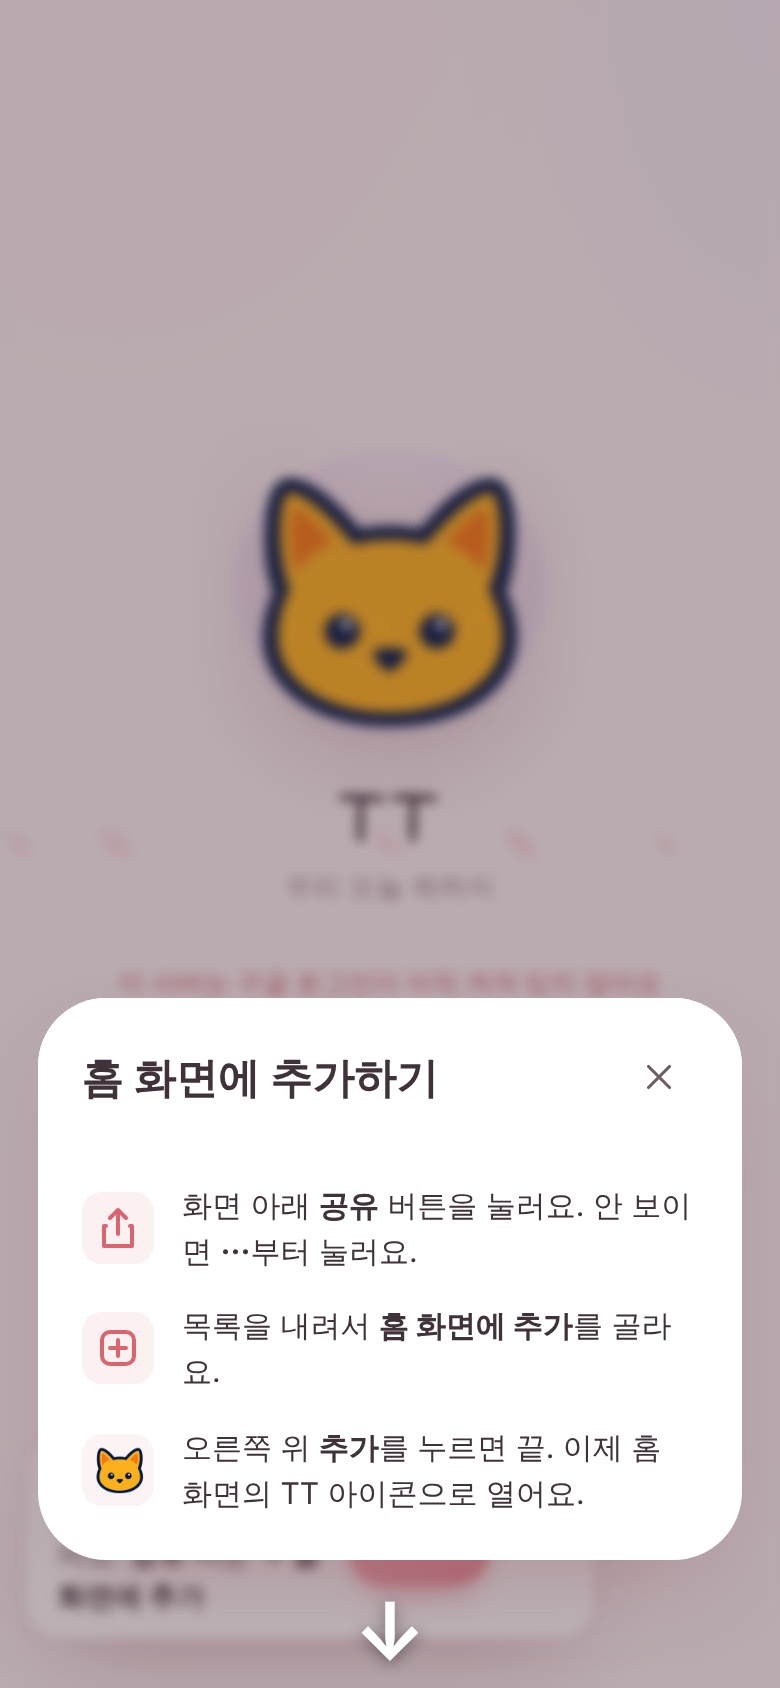
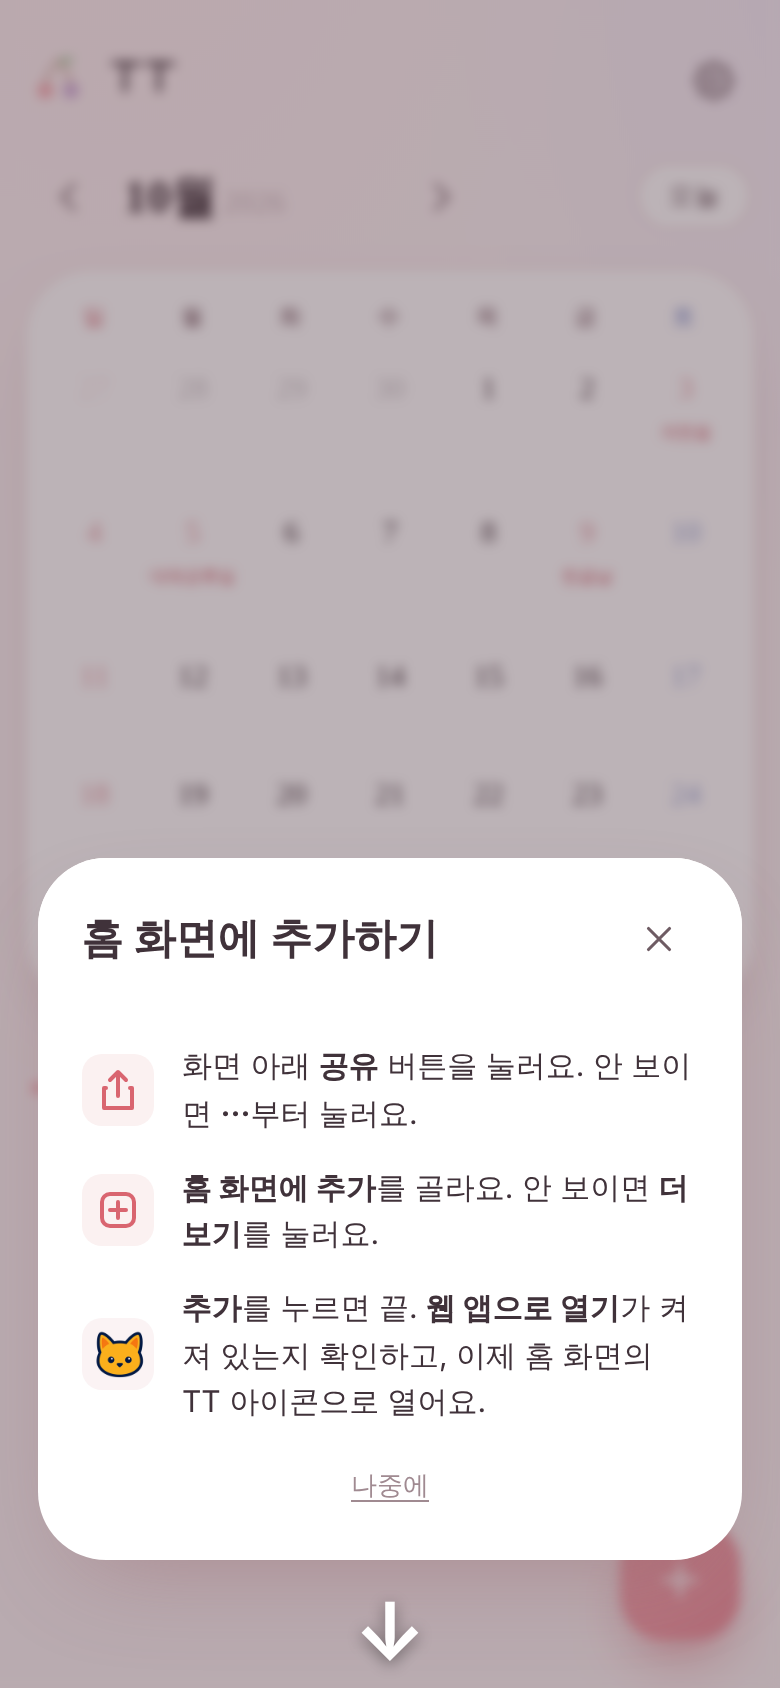
아이폰 설치: 제안 창 없이 바로 3단계 그림 안내, 공유 시트 안 씀
- 이름을 정한 뒤 아이폰은 "홈 화면에 TT를 둘까요?" 없이 바로 #install-guide (창 하나, 할 일 하나)
- navigator.share로 설치하던 코드와 "공유 시트를 열면 설치함" 처리 삭제 — 웹이 연 공유 시트엔
  "홈 화면에 추가"가 없음(실기기 확인, docs/IOS_INSTALL_RESEARCH.md)
- 그림 안내 3단계를 iOS 26 기준으로: ① 공유(안 보이면 ···) ② 홈 화면에 추가(안 보이면 더 보기)
  ③ 추가(웹 앱으로 열기 켜졌는지). 9개 언어. 안 쓰게 된 install.offerIos 삭제
- 처음 들어와 뜬 그림 안내엔 "나중에" — 어떻게 닫든 브라우저에서 사용법으로 이어짐.
  설정의 설치 버튼도 아이폰이면 같은 그림 안내("나중에" 없음)
- 안드로이드 설치 제안 창은 그대로
- 테스트: 아이폰 이름 → 그림 안내(제안 창·share 없음) → 나중에/× → 사용법,
  안드로이드 이름 → 제안 창 → 설치 창
- 스크린샷 13·14를 새 안내로(라이트·night), 없어진 제안 창 스크린샷 삭제

Claude-Session: https://claude.ai/code/session_01J9EXQ38aFxAwyDC6Rs36WW

diff --git a/public/app.js b/public/app.js
@@ -2626,7 +2626,9 @@ $('s-push').addEventListener('click', togglePush);
    크롬·엣지는 설치할 수 있을 때 beforeinstallprompt를 한 번 줍니다 — 이미 설치했으면 안 줘요.
    받아 뒀다가 누르면 바로 설치 창을 띄웁니다. 아이폰은 웹페이지가 대신 설치해 줄 길이 애플에 없어서
    공유 시트를 열어 주거나 "공유 → 홈 화면에 추가"를 그림으로 안내해요. 홈 화면에서 연 앱과 스토어 앱은 건너뜁니다.
-   권하는 건 처음 들어올 때 한 번(아래 "처음 들어올 때")과 설정의 설치 버튼뿐입니다. */
+   권하는 건 처음 들어올 때 한 번(아래 "처음 들어올 때")과 설정의 설치 버튼뿐입니다.
+   (공유 시트를 대신 여는 navigator.share는 쓰지 않습니다 — 웹이 연 공유 시트에는 "홈 화면에 추가"가 없어요.
+   실기기 확인, docs/IOS_INSTALL_RESEARCH.md) */
 let installPrompt = null;
 let promptWaiters = []; // 설치 신호를 잠깐 기다리는 쪽 (offerInstall)
 
@@ -2674,9 +2676,14 @@ function hideInstall() {
   showInstallButtons();
 }
 
-/** 아이폰 사파리는 단계 그림, 앱 안 화면은 "브라우저로 열기" 안내 */
-function openInstallGuide(mode) {
+/** 아이폰 사파리는 단계 그림, 앱 안 화면은 "브라우저로 열기" 안내.
+    firstRun이면 아래에 "나중에"를 두고, 닫히면 사용법으로 이어집니다 (closeInstallGuide). */
+let installGuideFirstRun = false;
+
+function openInstallGuide(mode, { firstRun = false } = {}) {
   const away = mode === 'away';
+  installGuideFirstRun = firstRun;
+  $('install-guide-later').hidden = !firstRun;
   // 첫 화면에서는 언어를 고르기 전에 열려서, 고른 뒤 applyI18n이 다시 옮기도록 키로 답니다
   $('install-guide-title').dataset.i18n = away ? 'install.awayTitle' : 'install.guideTitle';
   $('install-guide-title').textContent = t($('install-guide-title').dataset.i18n);
@@ -2689,16 +2696,6 @@ function openInstallGuide(mode) {
   if (!$('install-guide').open) $('install-guide').showModal();
 }
 
-/** 아이폰: 공유 시트를 바로 엽니다 — "홈 화면에 추가"가 그 안에 있어요. 못 열면 그림 안내로. */
-async function shareToHome() {
-  try {
-    if (!navigator.share) throw new Error('no share');
-    await navigator.share({ url: location.origin });
-  } catch {
-    openInstallGuide('ios');
-  }
-}
-
 /** 설정의 설치 버튼 */
 async function install() {
   if (appBrowser()) return openInstallGuide('away');
@@ -2707,7 +2704,7 @@ async function install() {
     await installPrompt.userChoice;
     return hideInstall();
   }
-  if (safariTab()) return shareToHome();
+  if (safariTab()) return openInstallGuide('ios');
 }
 
 async function copyArrivedAt() {
@@ -2724,6 +2721,14 @@ addEventListener('beforeinstallprompt', (e) => {
 addEventListener('appinstalled', hideInstall);
 $('s-install').addEventListener('click', install);
 $('install-guide-close').addEventListener('click', () => $('install-guide').close());
+$('install-guide-later').addEventListener('click', () => $('install-guide').close());
+// 처음 들어와 뜬 그림 안내는 어떻게 닫든(나중에·×·Esc) 사용법으로 이어집니다
+$('install-guide').addEventListener('close', () => {
+  if (!installGuideFirstRun) return;
+  installGuideFirstRun = false;
+  $('install-guide-later').hidden = true;
+  maybeGuide();
+});
 $('install-guide-open').addEventListener('click', leaveAppBrowser);
 $('install-guide-copy').addEventListener('click', copyArrivedAt);
 if (appBrowser()) {
@@ -2795,7 +2800,8 @@ const promptArrives = (ms) => new Promise((resolve) => {
   promptWaiters.push(() => { clearTimeout(timer); resolve(); });
 });
 
-/** ② 홈 화면에 둘까요? — 브라우저 탭에서, 이 기기에 한 번만 */
+/** ② 홈 화면에 — 브라우저 탭에서, 이 기기에 한 번만.
+    안드로이드는 "둘까요?" 창 → 시스템 설치 창. 아이폰은 묻지 않고 바로 3단계 그림 안내 (창 하나, 할 일 하나) */
 async function offerInstall() {
   if (inApp() || installed()) return maybeGuide();
   const offered = localStorage.getItem(INSTALL_OFFERED);
@@ -2805,15 +2811,16 @@ async function offerInstall() {
   const ios = !installPrompt && safariTab();
   if (!installPrompt && !ios) return maybeGuide(); // 설치할 길이 없는 브라우저 — 바로 사용법
   localStorage.setItem(INSTALL_OFFERED, 'skipped'); // 창을 그냥 닫고 떠나도 다시 묻지 않게
-  $('install-offer-text').innerHTML = t(ios ? 'install.offerIos' : 'install.offerAndroid');
+  if (ios) return openInstallGuide('ios', { firstRun: true });
   if (!$('install-offer').open) $('install-offer').showModal();
 }
 
+/** 안드로이드: 버튼 한 번 → 시스템 설치 창 */
 async function takeInstall() {
-  localStorage.setItem(INSTALL_OFFERED, 'taken');
   $('install-offer').close();
-  if (!installPrompt) return shareToHome(); // 아이폰 — 누른 그 자리에서 열어야 사파리가 허락합니다
   const prompt = installPrompt;
+  if (!prompt) return skipInstall();
+  localStorage.setItem(INSTALL_OFFERED, 'taken');
   prompt.prompt();
   const { outcome } = await prompt.userChoice;
   hideInstall();

diff --git a/public/i18n/ru.js b/public/i18n/ru.js
@@ -157,11 +157,10 @@ globalThis.I18N.ru = {
   'name.ok': 'Готово',
   'install.offerTitle': 'Добавить TT на главный экран?',
   'install.offerAndroid': 'Откроется сразу, как приложение, и сообщит, когда партнёр изменит план.',
-  'install.offerIos': 'На iPhone уведомления приходят, только если TT на главном экране. В открывшемся меню выбери <b>На экран «Домой»</b>.',
   'install.guideTitle': 'На экран «Домой»',
   'install.step1': 'Нажмите <b>Поделиться</b> внизу экрана. Не видно? Сначала нажмите <b>···</b>.',
-  'install.step2': 'Прокрутите вниз и выберите <b>На экран «Домой»</b>.',
-  'install.step3': 'Нажмите <b>Добавить</b> справа вверху. Теперь открывайте TT значком на экране «Домой».',
+  'install.step2': 'Выберите <b>На экран «Домой»</b>. Нет в списке? Нажмите <b>Ещё</b>.',
+  'install.step3': 'Нажмите <b>Добавить</b>. Проверьте, что <b>Открыть как веб-приложение</b> включено, и теперь открывайте TT значком на экране «Домой».',
   'install.awayTitle': 'Откройте в браузере',
   'install.awayText': 'Внутри приложений вроде Instagram не работают ни вход через Google, ни добавление на экран «Домой».',
   'install.awayHow': 'Откройте меню <b>···</b> и выберите <b>Открыть в браузере</b> (на iPhone — <b>Открыть в Safari</b>).',

diff --git a/public/index.html b/public/index.html
@@ -961,12 +961,13 @@
   </form>
 </dialog>
 
-<!-- ② 홈 화면 추가 — 브라우저 탭에서 한 번만. 안드로이드는 시스템 설치 창, 아이폰은 공유 시트 -->
+<!-- ② 홈 화면 추가 — 브라우저 탭에서 한 번만. 안드로이드는 이 창 → 시스템 설치 창.
+     아이폰은 웹이 대신 설치할 길이 없어서 이 창 없이 바로 그림 안내(#install-guide)를 띄웁니다 -->
 <dialog id="install-offer" class="ask-dialog step-dialog" aria-labelledby="install-offer-title">
   <div class="ask step">
     <img class="step-icon" src="/apple-touch-icon.png" alt="" width="64" height="64">
     <h2 id="install-offer-title" class="step-title" data-i18n="install.offerTitle"></h2>
-    <p id="install-offer-text" class="step-text"></p>
+    <p class="step-text" data-i18n="install.offerAndroid"></p>
     <button type="button" id="install-offer-go" class="btn btn-solid btn-wide" data-i18n="install.button"></button>
     <button type="button" id="install-offer-later" class="gate-link step-later" data-i18n="install.later"></button>
   </div>
@@ -996,6 +997,8 @@
         <p data-i18n-html="install.step3"></p>
       </li>
     </ol>
+    <!-- 처음 들어올 때 뜬 경우만 — 닫으면 사용법으로 이어집니다 -->
+    <button type="button" id="install-guide-later" class="gate-link install-later" data-i18n="install.later" hidden></button>
     <div id="install-guide-away" class="install-away" hidden>
       <p data-i18n="install.awayText"></p>
       <p data-i18n-html="install.awayHow"></p>

diff --git a/public/i18n/ja.js b/public/i18n/ja.js
@@ -142,11 +142,10 @@ globalThis.I18N.ja = {
   'name.ok': 'OK',
   'install.offerTitle': 'TTをホーム画面に置きますか？',
   'install.offerAndroid': 'アプリのようにすぐ開けて、相手が予定を変えるとお知らせします。',
-  'install.offerIos': 'iPhoneはホーム画面に置かないと通知が届きません。開いたメニューで<b>ホーム画面に追加</b>を選んでください。',
   'install.guideTitle': 'ホーム画面に追加',
   'install.step1': '画面下の<b>共有</b>ボタンをタップ。見当たらなければ先に<b>···</b>をタップ。',
-  'install.step2': '下にスクロールして<b>ホーム画面に追加</b>を選びます。',
-  'install.step3': '右上の<b>追加</b>で完了。これからはホーム画面のTTアイコンから開いてください。',
+  'install.step2': '<b>ホーム画面に追加</b>を選びます。見当たらなければ<b>さらに表示</b>をタップ。',
+  'install.step3': '<b>追加</b>で完了。<b>Webアプリとして開く</b>がオンになっているか確かめて、これからはホーム画面のTTアイコンから開いてください。',
   'install.awayTitle': 'ブラウザで開いてください',
   'install.awayText': 'LINEやInstagramなどのアプリ内画面では、Googleログインもホーム画面への追加もできません。',
   'install.awayHow': '<b>···</b>メニューから<b>ブラウザで開く</b>（iPhoneは<b>Safariで開く</b>）を選んでください。',

diff --git a/public/i18n/fr.js b/public/i18n/fr.js
@@ -150,11 +150,10 @@ globalThis.I18N.fr = {
   'name.ok': 'OK',
   'install.offerTitle': 'Mettre TT sur ton écran d\'accueil ?',
   'install.offerAndroid': 'Elle s\'ouvre tout de suite comme une app et te prévient quand l\'autre change un projet.',
-  'install.offerIos': 'Sur iPhone, les notifications n\'arrivent que si TT est sur l\'écran d\'accueil. Dans le menu qui s\'ouvre, choisis <b>Sur l\'écran d\'accueil</b>.',
   'install.guideTitle': "Sur l'écran d'accueil",
   'install.step1': "Touchez <b>Partager</b> en bas de l'écran. Vous ne le voyez pas ? Touchez d'abord <b>···</b>.",
-  'install.step2': "Faites défiler et choisissez <b>Sur l'écran d'accueil</b>.",
-  'install.step3': "Touchez <b>Ajouter</b> en haut à droite. Ouvrez désormais TT depuis son icône sur l'écran d'accueil.",
+  'install.step2': 'Choisissez <b>Sur l\'écran d\'accueil</b>. Pas dans la liste ? Touchez <b>Voir plus</b>.',
+  'install.step3': 'Touchez <b>Ajouter</b>. Vérifiez que <b>Ouvrir en tant qu\'app web</b> est activé, puis ouvrez TT depuis son icône sur l\'écran d\'accueil.',
   'install.awayTitle': 'Ouvrez ceci dans votre navigateur',
   'install.awayText': "Dans des applis comme Instagram, la connexion Google et l'ajout à l'écran d'accueil ne fonctionnent pas.",
   'install.awayHow': 'Ouvrez le menu <b>···</b> et choisissez <b>Ouvrir dans le navigateur</b> (sur iPhone, <b>Ouvrir dans Safari</b>).',

diff --git a/public/i18n/es.js b/public/i18n/es.js
@@ -150,11 +150,10 @@ globalThis.I18N.es = {
   'name.ok': 'Aceptar',
   'install.offerTitle': '¿Pones TT en tu pantalla de inicio?',
   'install.offerAndroid': 'Se abre al instante como una app y te avisa cuando tu pareja cambia un plan.',
-  'install.offerIos': 'En iPhone, los avisos solo llegan si TT está en la pantalla de inicio. En el menú que se abre, elige <b>Añadir a pantalla de inicio</b>.',
   'install.guideTitle': 'Añadir a pantalla de inicio',
   'install.step1': 'Toca <b>Compartir</b> abajo en la pantalla. ¿No lo ves? Toca primero <b>···</b>.',
-  'install.step2': 'Desliza hacia abajo y elige <b>Añadir a pantalla de inicio</b>.',
-  'install.step3': 'Toca <b>Añadir</b> arriba a la derecha. Desde ahora, abre TT con su icono en la pantalla de inicio.',
+  'install.step2': 'Elige <b>Añadir a pantalla de inicio</b>. ¿No está en la lista? Toca <b>Ver más</b>.',
+  'install.step3': 'Toca <b>Añadir</b>. Comprueba que <b>Abrir como app web</b> esté activado y, desde ahora, abre TT con su icono en la pantalla de inicio.',
   'install.awayTitle': 'Ábrelo en tu navegador',
   'install.awayText': 'Dentro de apps como Instagram, no funcionan ni el inicio de sesión con Google ni la instalación en la pantalla de inicio.',
   'install.awayHow': 'Abre el menú <b>···</b> y elige <b>Abrir en el navegador</b> (en iPhone, <b>Abrir en Safari</b>).',

diff --git a/public/i18n/de.js b/public/i18n/de.js
@@ -149,11 +149,10 @@ globalThis.I18N.de = {
   'name.ok': 'OK',
   'install.offerTitle': 'TT auf den Startbildschirm legen?',
   'install.offerAndroid': 'Es öffnet sich sofort wie eine App und sagt dir Bescheid, wenn dein Gegenüber einen Plan ändert.',
-  'install.offerIos': 'Auf dem iPhone kommen Mitteilungen nur, wenn TT auf dem Startbildschirm liegt. Wähle im Menü, das sich öffnet, <b>Zum Home-Bildschirm</b>.',
   'install.guideTitle': 'Zum Home-Bildschirm',
   'install.step1': 'Tippe unten auf <b>Teilen</b>. Nicht zu sehen? Tippe zuerst auf <b>···</b>.',
-  'install.step2': 'Scrolle nach unten und wähle <b>Zum Home-Bildschirm</b>.',
-  'install.step3': 'Tippe oben rechts auf <b>Hinzufügen</b>. Öffne TT ab jetzt über das Symbol auf dem Home-Bildschirm.',
+  'install.step2': 'Wähle <b>Zum Home-Bildschirm</b>. Nicht in der Liste? Tippe auf <b>Mehr anzeigen</b>.',
+  'install.step3': 'Tippe auf <b>Hinzufügen</b>. Prüfe, dass <b>Als Web-App öffnen</b> an ist, und öffne TT ab jetzt über das Symbol auf dem Home-Bildschirm.',
   'install.awayTitle': 'Bitte im Browser öffnen',
   'install.awayText': 'In Apps wie Instagram funktionieren weder die Google-Anmeldung noch das Hinzufügen zum Home-Bildschirm.',
   'install.awayHow': 'Öffne das Menü <b>···</b> und wähle <b>Im Browser öffnen</b> (auf dem iPhone <b>In Safari öffnen</b>).',

diff --git a/public/i18n/ko.js b/public/i18n/ko.js
@@ -143,11 +143,10 @@ globalThis.I18N.ko = {
   'name.ok': '확인',
   'install.offerTitle': '홈 화면에 TT를 둘까요?',
   'install.offerAndroid': '앱처럼 바로 열리고, 상대가 일정을 바꾸면 알려 드려요.',
-  'install.offerIos': '아이폰은 홈 화면에 둬야 알림이 와요. 열리는 메뉴에서 <b>홈 화면에 추가</b>를 골라 주세요.',
   'install.guideTitle': '홈 화면에 추가하기',
   'install.step1': '화면 아래 <b>공유</b> 버튼을 눌러요. 안 보이면 <b>···</b>부터 눌러요.',
-  'install.step2': '목록을 내려서 <b>홈 화면에 추가</b>를 골라요.',
-  'install.step3': '오른쪽 위 <b>추가</b>를 누르면 끝. 이제 홈 화면의 TT 아이콘으로 열어요.',
+  'install.step2': '<b>홈 화면에 추가</b>를 골라요. 안 보이면 <b>더 보기</b>를 눌러요.',
+  'install.step3': '<b>추가</b>를 누르면 끝. <b>웹 앱으로 열기</b>가 켜져 있는지 확인하고, 이제 홈 화면의 TT 아이콘으로 열어요.',
   'install.awayTitle': '브라우저에서 열어 주세요',
   'install.awayText': '카톡 같은 앱 안의 화면에서는 구글 로그인도, 홈 화면 설치도 안 돼요.',
   'install.awayHow': '화면의 <b>···</b> 메뉴에서 <b>다른 브라우저로 열기</b>(아이폰은 <b>Safari로 열기</b>)를 눌러요.',

diff --git a/public/i18n/pt-BR.js b/public/i18n/pt-BR.js
@@ -150,11 +150,10 @@ globalThis.I18N['pt-BR'] = {
   'name.ok': 'OK',
   'install.offerTitle': 'Colocar o TT na tela inicial?',
   'install.offerAndroid': 'Abre na hora como um app e avisa quando seu par muda um plano.',
-  'install.offerIos': 'No iPhone, as notificações só chegam com o TT na tela inicial. No menu que abrir, escolha <b>Adicionar à Tela de Início</b>.',
   'install.guideTitle': 'Adicionar à Tela de Início',
   'install.step1': 'Toque em <b>Compartilhar</b> na parte de baixo da tela. Não aparece? Toque primeiro em <b>···</b>.',
-  'install.step2': 'Role para baixo e escolha <b>Adicionar à Tela de Início</b>.',
-  'install.step3': 'Toque em <b>Adicionar</b> no canto superior direito. A partir de agora, abra o TT pelo ícone na tela de início.',
+  'install.step2': 'Escolha <b>Adicionar à Tela de Início</b>. Não está na lista? Toque em <b>Ver Mais</b>.',
+  'install.step3': 'Toque em <b>Adicionar</b>. Confira se <b>Abrir como App Web</b> está ativado e, a partir de agora, abra o TT pelo ícone na tela de início.',
   'install.awayTitle': 'Abra no seu navegador',
   'install.awayText': 'Dentro de apps como o Instagram, o login com Google e a instalação na tela de início não funcionam.',
   'install.awayHow': 'Abra o menu <b>···</b> e escolha <b>Abrir no navegador</b> (no iPhone, <b>Abrir no Safari</b>).',

diff --git a/public/i18n/zh-CN.js b/public/i18n/zh-CN.js
@@ -143,11 +143,10 @@ globalThis.I18N['zh-CN'] = {
   'name.ok': '确定',
   'install.offerTitle': '把 TT 放到主屏幕上吗？',
   'install.offerAndroid': '像应用一样直接打开，对方改了日程会通知你。',
-  'install.offerIos': 'iPhone 要放到主屏幕上才能收到通知。在弹出的菜单里选<b>添加到主屏幕</b>。',
   'install.guideTitle': '添加到主屏幕',
   'install.step1': '点按屏幕底部的<b>分享</b>按钮。看不到的话，先点<b>···</b>。',
-  'install.step2': '向下滑动，选择<b>添加到主屏幕</b>。',
-  'install.step3': '点右上角的<b>添加</b>就好了。以后从主屏幕的 TT 图标打开。',
+  'install.step2': '选择<b>添加到主屏幕</b>。没看到的话，点<b>查看更多</b>。',
+  'install.step3': '点<b>添加</b>就好了。确认<b>作为网页 App 打开</b>是打开的，以后从主屏幕的 TT 图标打开。',
   'install.awayTitle': '请在浏览器中打开',
   'install.awayText': '在微信、Instagram 等应用内的页面里，无法用 Google 登录，也无法添加到主屏幕。',
   'install.awayHow': '打开 <b>···</b> 菜单，选择<b>在浏览器中打开</b>（iPhone 选<b>在 Safari 中打开</b>）。',

diff --git a/public/i18n/en.js b/public/i18n/en.js
@@ -160,11 +160,10 @@ globalThis.I18N.en = {
   'name.ok': 'OK',
   'install.offerTitle': 'Keep TT on your home screen?',
   'install.offerAndroid': 'It opens straight away like an app, and tells you when your partner changes a plan.',
-  'install.offerIos': 'On iPhone, notifications only come once TT is on your home screen. In the menu that opens, pick <b>Add to Home Screen</b>.',
   'install.guideTitle': 'Add to Home Screen',
   'install.step1': "Tap <b>Share</b> at the bottom of the screen. Don't see it? Tap <b>···</b> first.",
-  'install.step2': 'Scroll down and pick <b>Add to Home Screen</b>.',
-  'install.step3': 'Tap <b>Add</b> at the top right. From now on, open TT from its home screen icon.',
+  'install.step2': 'Pick <b>Add to Home Screen</b>. Not in the list? Tap <b>View More</b>.',
+  'install.step3': 'Tap <b>Add</b>. Check that <b>Open as Web App</b> is on — then open TT from its home screen icon.',
   'install.awayTitle': 'Open this in your browser',
   'install.awayText': "Inside apps like KakaoTalk or Instagram, Google sign-in and installing to the home screen don't work.",
   'install.awayHow': 'Open the <b>···</b> menu and choose <b>Open in browser</b> (on iPhone, <b>Open in Safari</b>).',

diff --git a/public/style.css b/public/style.css
@@ -1270,6 +1270,7 @@ button, input, select, textarea { font: inherit; color: inherit; }
 }
 img.install-step-icon { padding: 0; }
 .install-away { display: grid; gap: 12px; }
+.install-later { display: block; margin: 16px auto 0; }
 .install-guide.point-down[open] {
   margin-bottom: calc(64px + env(safe-area-inset-bottom));
   overflow: visible;
